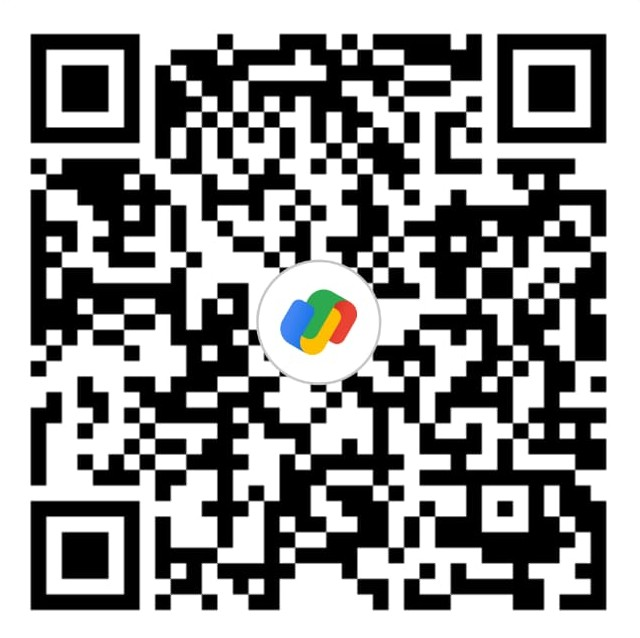
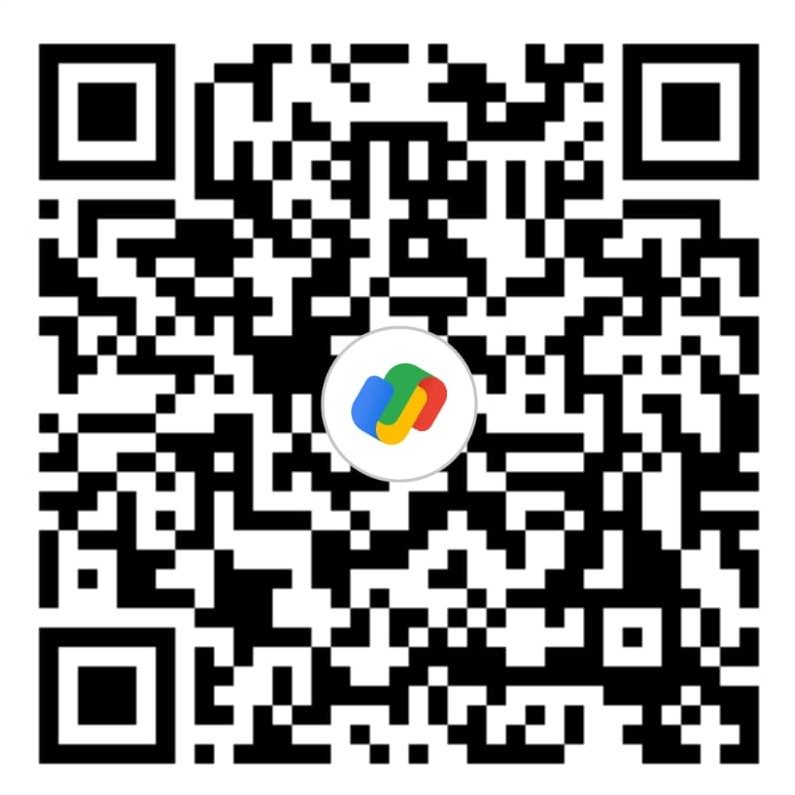
pricing and qr changed

diff --git a/src/Pages/TestimonialsPage.jsx b/src/Pages/TestimonialsPage.jsx
@@ -160,8 +160,8 @@ const TestimonialsPage = () => {
       <div className="qr-floater" onClick={openPopup}>
         <img src={qrCodeImage} alt="QR Code" className="qr-code" />
         <div className="price-label">
-          <span className="old-price">₹15,000</span>
-          <span className="new-price">₹12,000</span>
+          <span className="old-price">₹16,000</span>
+          <span className="new-price">₹12,500</span>
           <span className="book-now">Book Your Slot Now</span>
         </div>
       </div>

diff --git a/src/Pages/ReferPage.jsx b/src/Pages/ReferPage.jsx
@@ -155,8 +155,8 @@ const ReferFriendPage = () => {
       <div className="qr-floater" onClick={openPopup}>
         <img src={qrCodeImage} alt="QR Code" className="qr-code" />
         <div className="price-label">
-          <span className="old-price">₹15,000</span>
-          <span className="new-price">₹12,000</span>
+          <span className="old-price">₹16,000</span>
+          <span className="new-price">₹12,500</span>
           <span className="book-now">Book Your Slot Now</span>
         </div>
       </div>

diff --git a/src/Pages/ContactUsPage.jsx b/src/Pages/ContactUsPage.jsx
@@ -170,8 +170,8 @@ const ContactUsPage = () => {
       <div className="qr-floater" onClick={openPopup}>
         <img src={qrCodeImage} alt="QR Code" className="qr-code" />
         <div className="price-label">
-          <span className="old-price">₹15,000</span>
-          <span className="new-price">₹12,000</span>
+          <span className="old-price">₹16,000</span>
+          <span className="new-price">₹12,500</span>
           <span className="book-now">Book Your Slot Now</span>
         </div>
       </div>

diff --git a/src/Pages/HomePage.jsx b/src/Pages/HomePage.jsx
@@ -257,8 +257,8 @@ const HomePage = () => {
       <div className="qr-floater" onClick={openPopup}>
         <img src={qrCodeImage} alt="QR Code" className="qr-code" />
         <div className="price-label">
-          <span className="old-price">₹15,000</span>
-          <span className="new-price">₹12,000</span>
+          <span className="old-price">₹16,000</span>
+          <span className="new-price">₹12,500</span>
           <span className="book-now">Book Your Slot Now</span>
         </div>
       </div>
